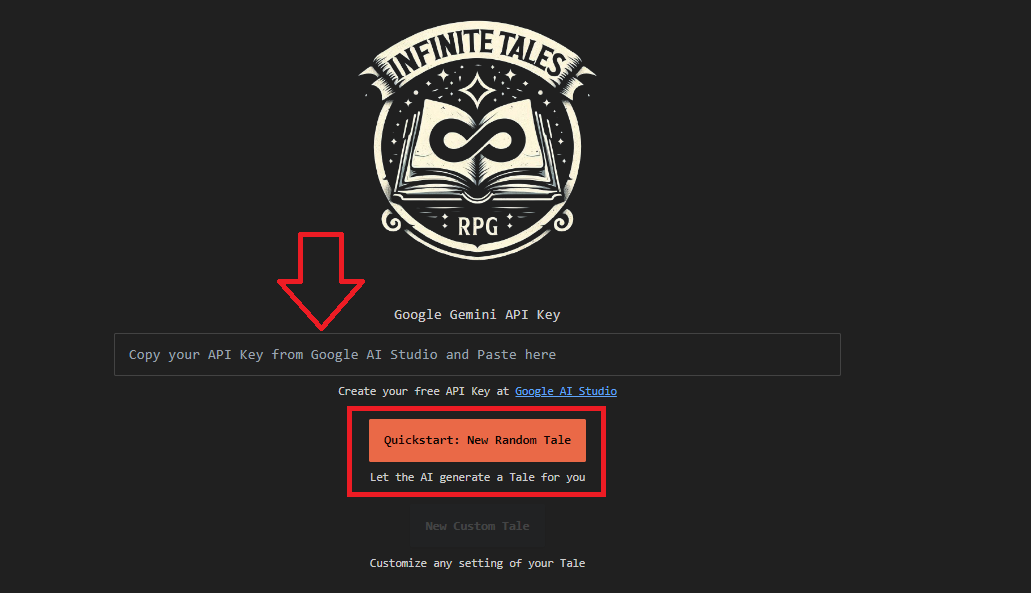
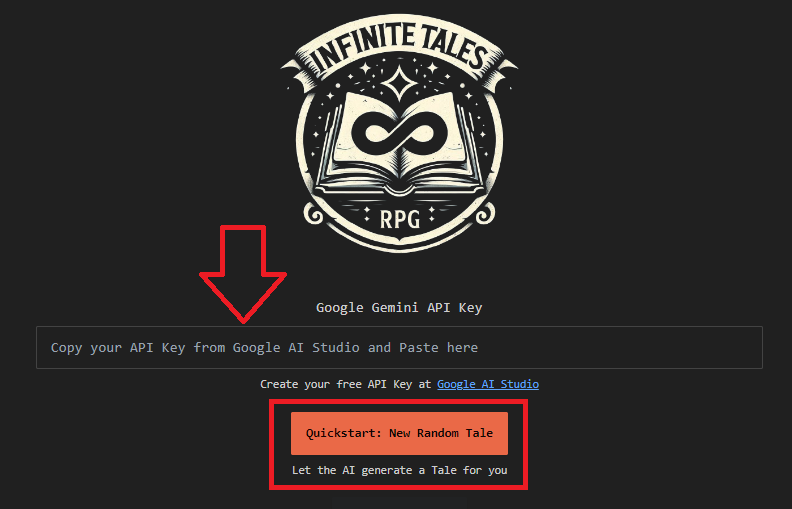
Create guide to get APi key

Changed region(s): [[0.0606, 0.3831, 0.8182, 0.9725], [0.3333, 0.0295, 0.6667, 0.5599]]

diff --git a/src/routes/+page.svelte b/src/routes/+page.svelte
@@ -28,7 +28,7 @@
 
     <section class="text-center my-8 bg-gray-800 p-6 rounded-lg shadow-md">
         <h2 class="text-2xl font-semibold mb-4">How to Start Playing</h2>
-        <p class="mb-4">To begin your tale, you need a Google Gemini API Key. It's free and easy to set up! Visit <a target="_blank" href="https://aistudio.google.com/app/apikey" class="text-blue-400 underline">Google AI Studio</a>, generate your API key and enter it in the settings.</p>
+        <p class="mb-4">To begin your tale, you need a Google Gemini API Key. It's free and easy to set up! View the <a target="_blank" href="https://github.com/JayJayBinks/infinite-tales-rpg/wiki/Create-your-free-Google-Gemini-API-Key-%F0%9F%94%91" class="text-blue-400 underline">guide to create the API Key</a></p>
         <p>Your key is only stored in your browser, ensuring your privacy.</p>
     </section>
 

diff --git a/src/routes/game/settings/ai/+page.svelte b/src/routes/game/settings/ai/+page.svelte
@@ -68,8 +68,9 @@
     <label class="form-control w-full sm:w-2/3">
         <p>Google Gemini API Key</p>
         <input type="text" id="apikey" bind:value={apiKeyState.value}
+               placeholder="Copy your API Key from Google AI Studio and Paste here"
                class="mt-2 input input-bordered"/>
-        <small class="m-auto mt-2">Create your free API Key at <a target="_blank" href="https://aistudio.google.com/app/apikey" class="link text-blue-400 underline">Google AI Studio</a></small>
+        <small class="m-auto mt-2">View the <a target="_blank" href="https://github.com/JayJayBinks/infinite-tales-rpg/wiki/Create-your-free-Google-Gemini-API-Key-%F0%9F%94%91" class="link text-blue-400 underline">guide to create the API Key</a></small>
     </label>
     <button class="btn btn-accent mt-5 m-auto"
             onclick="{onQuickstartNew}">
